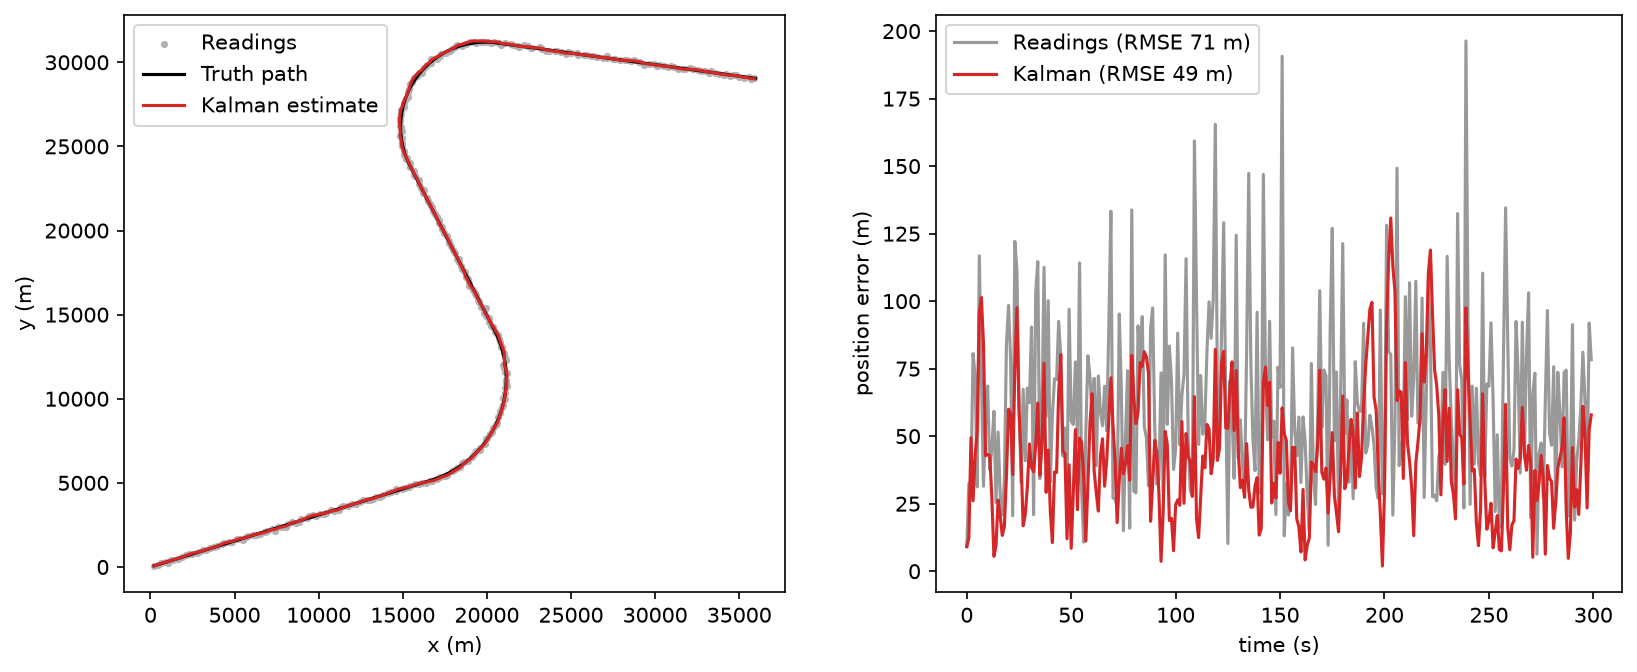
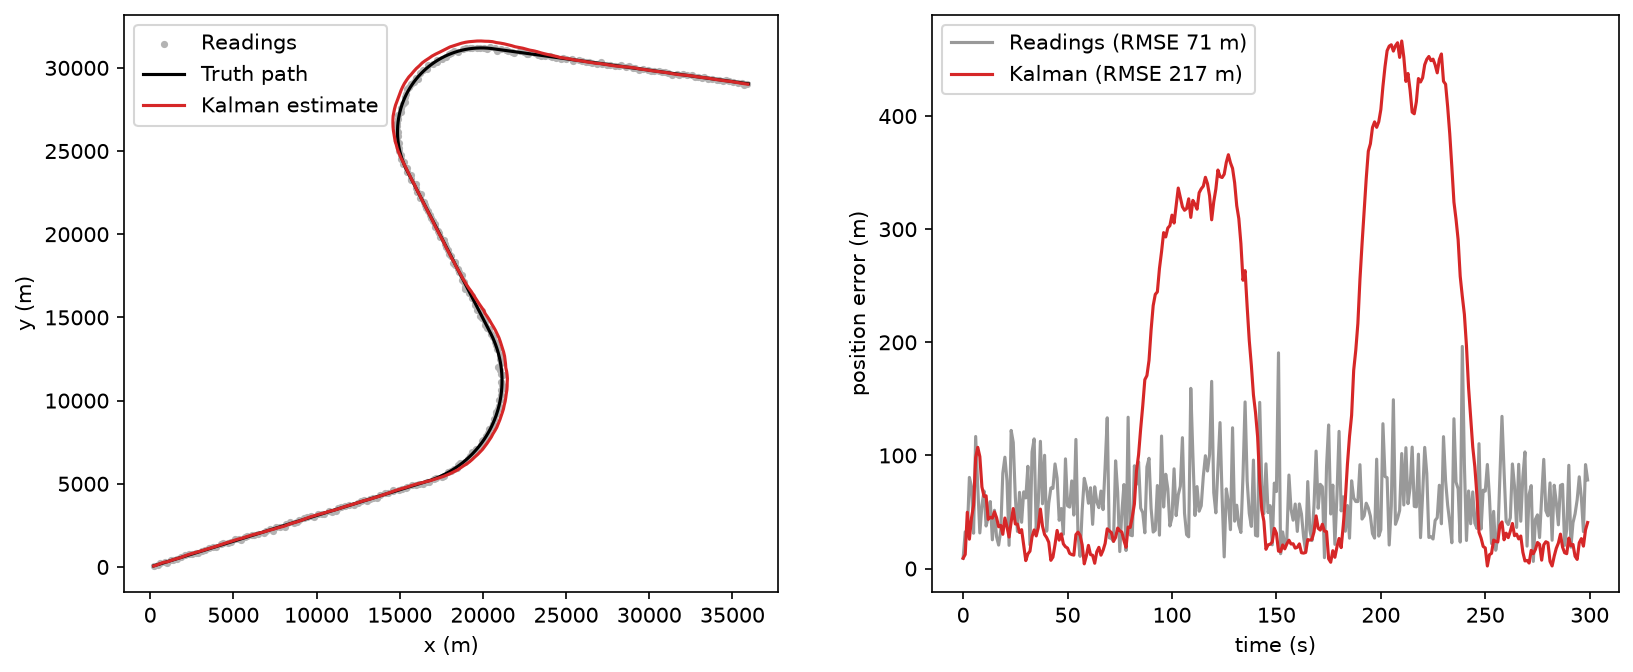
Add flight simulator and linear tracking demo

diff --git a/scripts/demo_linear.py b/scripts/demo_linear.py
@@ -10,6 +10,9 @@ from tracker.simulate import rmse, simulate_track
 
 DT = 1.0
 MEAS_STD = 50.0
+# TESTED
+# chaning ACCEL_STD to a low value makes the error very large once the object turns
+# TODO: Add turning algorithm
 ACCEL_STD = 8.0
 
 def main():
